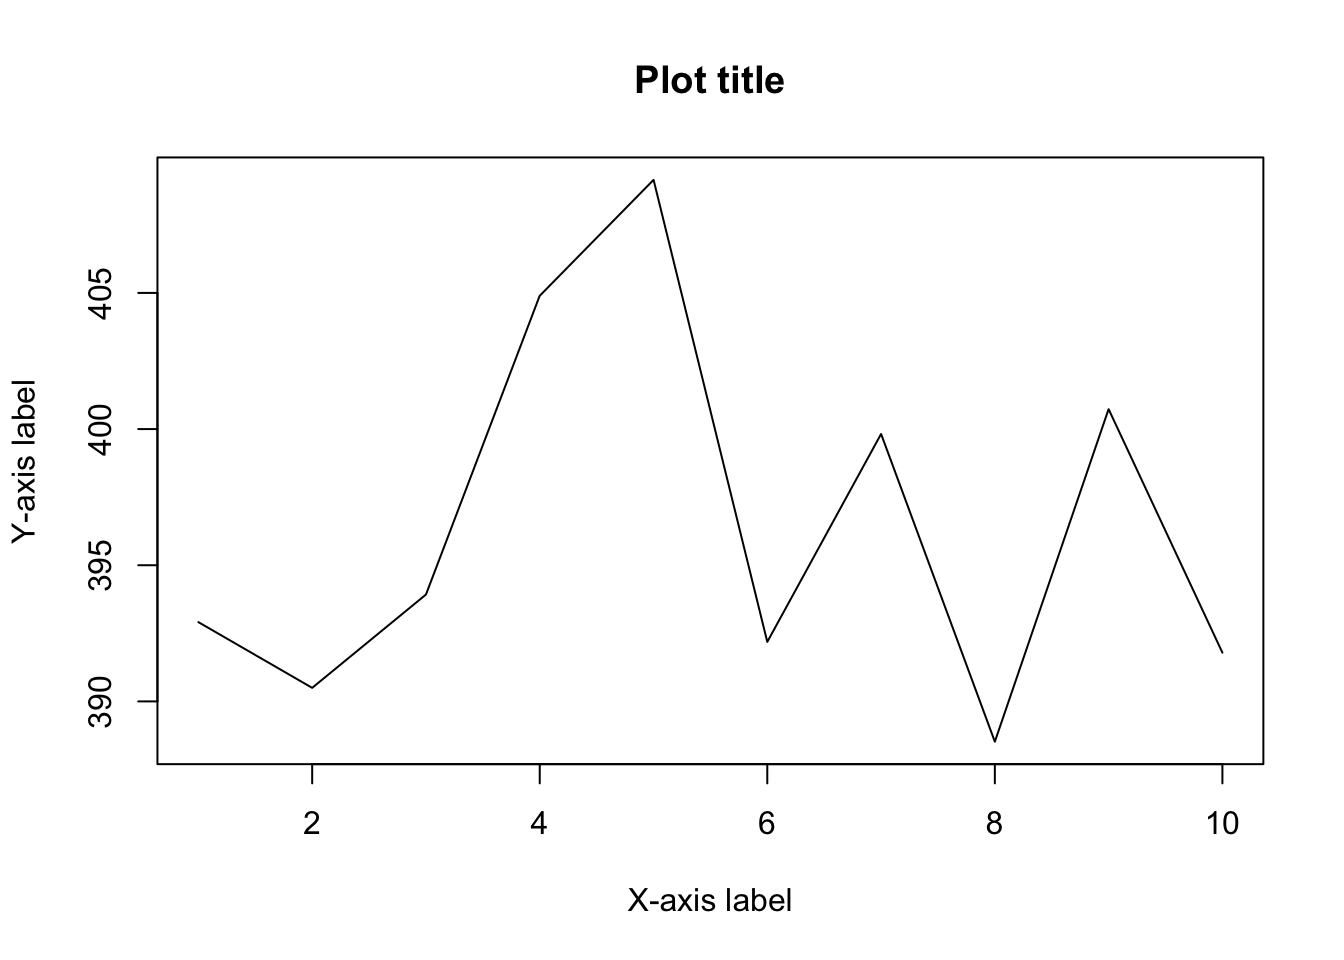
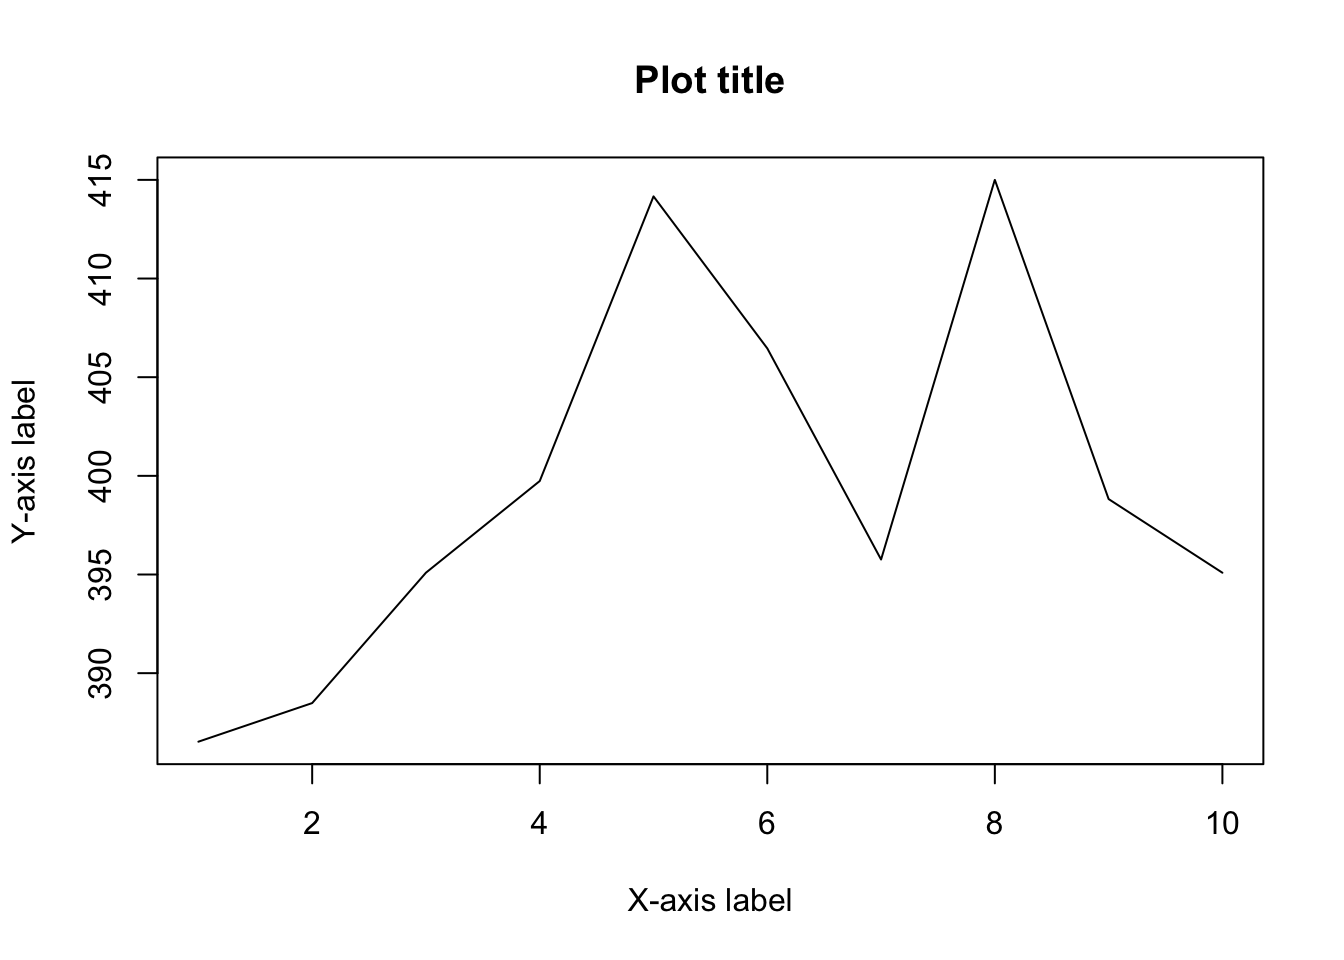
edit post

diff --git a/public/blog/how-to-import-an-excel-file-in-rstudio/index.html b/public/blog/how-to-import-an-excel-file-in-rstudio/index.html
@@ -120,7 +120,7 @@
                         </span>
 
                         <span class="reading-time middot">
-                            11 minute read
+                            12 minute read
                         </span>
 
                         <div class="d-none d-md-inline tags">
@@ -187,7 +187,7 @@
 <li>Choose the format .csv</li>
 <li>Click on Save</li>
 </ol>
-<p>Check that your file finishes with the extension .csv. If that is the case, your file is now ready to be imported.</p>
+<p>Check that your file finishes with the extension .csv. If that is the case, your file is now ready to be imported. But first, let me introduce an important concept when importing datasets into RStudio, the working directory.</p>
 </div>
 <div id="r-working-directory" class="section level1">
 <h1>R working directory</h1>
@@ -231,7 +231,7 @@
 </div>
 <div id="via-the-console" class="section level3">
 <h3>Via the console</h3>
-<p>You can specifiy the working directory by running <code>setwd(path/to/folder)</code> directly in the console, with <code>path/to/folder</code> being the path to the folder containing your dataset.</p>
+<p>You can specifiy the working directory by running <code>setwd(path/to/folder)</code> directly in the console, with <code>path/to/folder</code> being the path to the folder containing your dataset. However, you will need to run the command again when reoping RStudio.</p>
 </div>
 <div id="via-the-text-editor" class="section level3">
 <h3>Via the text editor</h3>
@@ -246,7 +246,7 @@
 </div>
 <div id="import-your-dataset" class="section level1">
 <h1>Import your dataset</h1>
-<p>Now that you have tranformed your Excel file into a CSV file, you have specified the folder containing your data by setting the working directory, you are now ready to actually import your dataset. Remind that there are a two methods to import a file:</p>
+<p>Now that you have tranformed your Excel file into a CSV file and you have specified the folder containing your data by setting the working directory, you are now ready to actually import your dataset. Remind that there are a two methods to import a file:</p>
 <ol style="list-style-type: decimal">
 <li>in a user-friendly way</li>
 <li>via the text editor (see also below why it is my preferred option)</li>
@@ -277,7 +277,7 @@
 </div>
 <p>From this window, you can have a preview of your data, and more importantly, check whether your data seems to have been imported correctly. If your data have been correctly imported, you can click on “Import”. If this is not the case, you can change the import options at the bottom of the window (below the data preview) corresponding to the information you gathered when looking at the raw data. Below, the import options you will most likely use:</p>
 <ul>
-<li>Name: set the name of your data set (default is the name of the file). Avoid special characters and long names (as you will have to type the name of your dataset several times). I personnaly rename my datasets with a generic name such as “dat”, others use “df” (for dataframe), “data”, or even “my_data”. You could use more explicit names such as “tennis_data” if you are using data on tennis matches for example. However, the main drawback with using specific names for datasets is that if, for instance, you want to reuse the code you created while analysing tennis data on other datasets, you will need to edit your code by replacing all occurences of “tennis_data” by the new name of your dataset</li>
+<li>Name: set the name of your data set (default is the name of the file). Avoid special characters and long names (as you will have to type the name of your dataset several times). I personnaly rename my datasets with a generic name such as “dat”, others use “df” (for dataframe), “data”, or even “my_data”. You could use more explicit names such as “tennis_data” if you are using data on tennis matches for example. However, the main drawback with using specific names for datasets is that if, for instance, you want to reuse the code you created while analysing tennis data on other datasets, you will need to edit your code by replacing all occurences of “tennis_data” by the name of your new dataset</li>
 <li>Skip: specify the number of top rows you want to skip (default is 0). Most of the time, 0 is fine. However, if your file contains some blank rows at the top (or information you want to disregard), set the number of rows to skip</li>
 <li>First Row as Names: specify whether the variables names are present or not (default is that variables names are present)</li>
 <li>Delimiter: the character which separate the values. From our raw data above, you can see that the delimiter is a comma (“,”). Change it to semicolon if your values are separated by “;”</li>
@@ -288,7 +288,7 @@
 </div>
 <div id="via-the-text-editor-1" class="section level2">
 <h2>Via the text editor</h2>
-<p>Similarily to setting the working directory, I also recommend using the text editor instead of the user-friendly method for the simple reason that you can save your import options when using the text editor (and not when using the user-friendly method). Saving your import options in your script (thanks to a line of code) allows you to quickly import your dataset the exact same way without having to repeat all the steps everytime you import your dataset. The command to import a CSV file is <code>read.csv()</code> (or <code>read.csv2()</code> which is equivalent but with other default import options). Here is an example with the same file than in the user-friendly method:</p>
+<p>Similarily to setting the working directory, I also recommend using the text editor instead of the user-friendly method for the simple reason that you can save your import options when using the text editor (and not when using the user-friendly method). Saving your import options in your script (thanks to a line of code) allows you to quickly import your dataset the exact same way without having to repeat all the necessary steps everytime you import your dataset. The command to import a CSV file is <code>read.csv()</code> (or <code>read.csv2()</code> which is equivalent but with other default import options). Here is an example with the same file than in the user-friendly method:</p>
 <pre class="r"><code>dat &lt;- read.csv(
   file = &quot;data.csv&quot;,
   header = TRUE,
@@ -301,13 +301,13 @@
 <li><code>header =</code>: are variables names present? The default is <code>TRUE</code>, change it to <code>FALSE</code> if it is not the case in your dataset (<code>TRUE</code> and <code>FALSE</code> are always in capital letters, <code>true</code> will not work!)</li>
 <li><code>sep =</code>: separator. Equivalent to delimiter in the user-friendly method. Do not forget the &quot;&quot;. In our dataset the separator of the values is a comma so <code>sep = &quot;,&quot;</code></li>
 <li><code>dec =</code>: decimal. Do not forget the &quot;&quot;. In our dataset, the decimal for the numeric values is a point, so <code>dec = &quot;.&quot;</code></li>
-<li>I do not write that missing values are coded in my dataset as empty cells because it is the default</li>
-<li>last but not least, do not forget that the arguments are separated by a comma</li>
+<li>I do not write that missing values are coded as empty cells in my dataset because it is the default</li>
+<li>Last but not least, do not forget that the arguments are separated by a comma</li>
 </ul>
 <p>Other arguments exist, run <code>?read.csv</code> to see all of them.</p>
-<p>After the importation you can check that your data have been correctly imported by running <code>View(dat)</code> where <code>dat</code> is the name you chose for your data. A window, similar than for the user-friendly method, will display your data. Alternatively you can also run <code>head(dat)</code> to see the first 6 rows and check that it corresponds to your Excel file. If something is not correct, edit the import options and check again. If your dataset has been correctly imported, you can now start analyzing your data. See other <a href="/tags/R/">articles on R</a> if you want to learn how.</p>
+<p>After the importation you can check whether your data have been correctly imported by running <code>View(dat)</code> where <code>dat</code> is the name you chose for your data. A window, similar than for the user-friendly method, will display your data. Alternatively you can also run <code>head(dat)</code> to see the first 6 rows and check that it corresponds to your Excel file. If something is not correct, edit the import options and check again. If your dataset has been correctly imported, you can now start analyzing your data. See other <a href="/tags/R/">articles on R</a> if you want to learn how.</p>
 <p>The advantage of importing your dataset directly via the code in the text editor is that your import options will be saved for a future usage, preventing you from importing it manually every time you open your script. You will, however, need to remember the function <code>read.csv()</code> (not the arguments since you can always check them in the help documentation).</p>
-<p>As always, if you find a mistake/bug or if you have any questions do not hesitate to let me know in the comment section below, <a href="https://github.com/AntoineSoetewey/statsandr/issues" target="_blank" rel="noopener">raise an issue on GitHub</a> or <a href="/contact/">contact me</a>.</p>
+<p>I hope this article helped you to import an Excel file in RStudio. As always, if you find a mistake/bug or if you have any questions do not hesitate to let me know in the comment section below, <a href="https://github.com/AntoineSoetewey/statsandr/issues" target="_blank" rel="noopener">raise an issue on GitHub</a> or <a href="/contact/">contact me</a>.</p>
 </div>
 </div>
 

diff --git a/content/blog/how-to-import-an-excel-file-in-rstudio.html b/content/blog/how-to-import-an-excel-file-in-rstudio.html
@@ -57,7 +57,7 @@ output:
 <li>Choose the format .csv</li>
 <li>Click on Save</li>
 </ol>
-<p>Check that your file finishes with the extension .csv. If that is the case, your file is now ready to be imported.</p>
+<p>Check that your file finishes with the extension .csv. If that is the case, your file is now ready to be imported. But first, let me introduce an important concept when importing datasets into RStudio, the working directory.</p>
 </div>
 <div id="r-working-directory" class="section level1">
 <h1>R working directory</h1>
@@ -101,7 +101,7 @@ output:
 </div>
 <div id="via-the-console" class="section level3">
 <h3>Via the console</h3>
-<p>You can specifiy the working directory by running <code>setwd(path/to/folder)</code> directly in the console, with <code>path/to/folder</code> being the path to the folder containing your dataset.</p>
+<p>You can specifiy the working directory by running <code>setwd(path/to/folder)</code> directly in the console, with <code>path/to/folder</code> being the path to the folder containing your dataset. However, you will need to run the command again when reoping RStudio.</p>
 </div>
 <div id="via-the-text-editor" class="section level3">
 <h3>Via the text editor</h3>
@@ -116,7 +116,7 @@ output:
 </div>
 <div id="import-your-dataset" class="section level1">
 <h1>Import your dataset</h1>
-<p>Now that you have tranformed your Excel file into a CSV file, you have specified the folder containing your data by setting the working directory, you are now ready to actually import your dataset. Remind that there are a two methods to import a file:</p>
+<p>Now that you have tranformed your Excel file into a CSV file and you have specified the folder containing your data by setting the working directory, you are now ready to actually import your dataset. Remind that there are a two methods to import a file:</p>
 <ol style="list-style-type: decimal">
 <li>in a user-friendly way</li>
 <li>via the text editor (see also below why it is my preferred option)</li>
@@ -147,7 +147,7 @@ output:
 </div>
 <p>From this window, you can have a preview of your data, and more importantly, check whether your data seems to have been imported correctly. If your data have been correctly imported, you can click on “Import”. If this is not the case, you can change the import options at the bottom of the window (below the data preview) corresponding to the information you gathered when looking at the raw data. Below, the import options you will most likely use:</p>
 <ul>
-<li>Name: set the name of your data set (default is the name of the file). Avoid special characters and long names (as you will have to type the name of your dataset several times). I personnaly rename my datasets with a generic name such as “dat”, others use “df” (for dataframe), “data”, or even “my_data”. You could use more explicit names such as “tennis_data” if you are using data on tennis matches for example. However, the main drawback with using specific names for datasets is that if, for instance, you want to reuse the code you created while analysing tennis data on other datasets, you will need to edit your code by replacing all occurences of “tennis_data” by the new name of your dataset</li>
+<li>Name: set the name of your data set (default is the name of the file). Avoid special characters and long names (as you will have to type the name of your dataset several times). I personnaly rename my datasets with a generic name such as “dat”, others use “df” (for dataframe), “data”, or even “my_data”. You could use more explicit names such as “tennis_data” if you are using data on tennis matches for example. However, the main drawback with using specific names for datasets is that if, for instance, you want to reuse the code you created while analysing tennis data on other datasets, you will need to edit your code by replacing all occurences of “tennis_data” by the name of your new dataset</li>
 <li>Skip: specify the number of top rows you want to skip (default is 0). Most of the time, 0 is fine. However, if your file contains some blank rows at the top (or information you want to disregard), set the number of rows to skip</li>
 <li>First Row as Names: specify whether the variables names are present or not (default is that variables names are present)</li>
 <li>Delimiter: the character which separate the values. From our raw data above, you can see that the delimiter is a comma (“,”). Change it to semicolon if your values are separated by “;”</li>
@@ -158,7 +158,7 @@ output:
 </div>
 <div id="via-the-text-editor-1" class="section level2">
 <h2>Via the text editor</h2>
-<p>Similarily to setting the working directory, I also recommend using the text editor instead of the user-friendly method for the simple reason that you can save your import options when using the text editor (and not when using the user-friendly method). Saving your import options in your script (thanks to a line of code) allows you to quickly import your dataset the exact same way without having to repeat all the steps everytime you import your dataset. The command to import a CSV file is <code>read.csv()</code> (or <code>read.csv2()</code> which is equivalent but with other default import options). Here is an example with the same file than in the user-friendly method:</p>
+<p>Similarily to setting the working directory, I also recommend using the text editor instead of the user-friendly method for the simple reason that you can save your import options when using the text editor (and not when using the user-friendly method). Saving your import options in your script (thanks to a line of code) allows you to quickly import your dataset the exact same way without having to repeat all the necessary steps everytime you import your dataset. The command to import a CSV file is <code>read.csv()</code> (or <code>read.csv2()</code> which is equivalent but with other default import options). Here is an example with the same file than in the user-friendly method:</p>
 <pre class="r"><code>dat &lt;- read.csv(
   file = &quot;data.csv&quot;,
   header = TRUE,
@@ -171,12 +171,12 @@ output:
 <li><code>header =</code>: are variables names present? The default is <code>TRUE</code>, change it to <code>FALSE</code> if it is not the case in your dataset (<code>TRUE</code> and <code>FALSE</code> are always in capital letters, <code>true</code> will not work!)</li>
 <li><code>sep =</code>: separator. Equivalent to delimiter in the user-friendly method. Do not forget the &quot;&quot;. In our dataset the separator of the values is a comma so <code>sep = &quot;,&quot;</code></li>
 <li><code>dec =</code>: decimal. Do not forget the &quot;&quot;. In our dataset, the decimal for the numeric values is a point, so <code>dec = &quot;.&quot;</code></li>
-<li>I do not write that missing values are coded in my dataset as empty cells because it is the default</li>
-<li>last but not least, do not forget that the arguments are separated by a comma</li>
+<li>I do not write that missing values are coded as empty cells in my dataset because it is the default</li>
+<li>Last but not least, do not forget that the arguments are separated by a comma</li>
 </ul>
 <p>Other arguments exist, run <code>?read.csv</code> to see all of them.</p>
-<p>After the importation you can check that your data have been correctly imported by running <code>View(dat)</code> where <code>dat</code> is the name you chose for your data. A window, similar than for the user-friendly method, will display your data. Alternatively you can also run <code>head(dat)</code> to see the first 6 rows and check that it corresponds to your Excel file. If something is not correct, edit the import options and check again. If your dataset has been correctly imported, you can now start analyzing your data. See other <a href="/tags/R/">articles on R</a> if you want to learn how.</p>
+<p>After the importation you can check whether your data have been correctly imported by running <code>View(dat)</code> where <code>dat</code> is the name you chose for your data. A window, similar than for the user-friendly method, will display your data. Alternatively you can also run <code>head(dat)</code> to see the first 6 rows and check that it corresponds to your Excel file. If something is not correct, edit the import options and check again. If your dataset has been correctly imported, you can now start analyzing your data. See other <a href="/tags/R/">articles on R</a> if you want to learn how.</p>
 <p>The advantage of importing your dataset directly via the code in the text editor is that your import options will be saved for a future usage, preventing you from importing it manually every time you open your script. You will, however, need to remember the function <code>read.csv()</code> (not the arguments since you can always check them in the help documentation).</p>
-<p>As always, if you find a mistake/bug or if you have any questions do not hesitate to let me know in the comment section below, <a href="https://github.com/AntoineSoetewey/statsandr/issues" target="_blank" rel="noopener">raise an issue on GitHub</a> or <a href="/contact/">contact me</a>.</p>
+<p>I hope this article helped you to import an Excel file in RStudio. As always, if you find a mistake/bug or if you have any questions do not hesitate to let me know in the comment section below, <a href="https://github.com/AntoineSoetewey/statsandr/issues" target="_blank" rel="noopener">raise an issue on GitHub</a> or <a href="/contact/">contact me</a>.</p>
 </div>
 </div>

diff --git a/public/blog/how-to-install-r-and-rstudio/index.html b/public/blog/how-to-install-r-and-rstudio/index.html
@@ -300,10 +300,10 @@ my_mat2</code></pre>
 <pre class="r"><code>my_vec &lt;- rnorm(10, mean = 400, sd = 10)
 # Display only the first 5 values:
 head(my_vec, 5)</code></pre>
-<pre><code>## [1] 392.9112 390.4974 393.9237 404.8941 409.1496</code></pre>
+<pre><code>## [1] 386.5274 388.4847 395.0926 399.7369 414.1638</code></pre>
 <pre class="r"><code># Display only the last 5 values:
 tail(my_vec, 5)</code></pre>
-<pre><code>## [1] 392.1845 399.8181 388.5205 400.7285 391.7907</code></pre>
+<pre><code>## [1] 406.4601 395.7600 414.9980 398.8240 395.0899</code></pre>
 <p>You will have different values than mines due to the fact that they are randomly generated. If you want to make sure to have always the same random values, use <code>set.seed()</code> (with any numeric inside the brackets). For instance, with the following code, you should have the exact same values, no matter where and when you run it:</p>
 <pre class="r"><code>set.seed(42)
 rnorm(3, mean = 10, sd = 2)</code></pre>
@@ -319,7 +319,7 @@ rnorm(3, mean = 10, sd = 2)</code></pre>
 )</code></pre>
 <p><img src="/blog/how-to-install-r-and-rstudio_files/figure-html/unnamed-chunk-12-1.png" width="672" /></p>
 <p>This is only a very limited introduction to the possibilities of RStudio. If you want to learn more, I recommend that you read other <a href="/tags/R/">articles related to R</a>.</p>
-<p>As always, if you find a mistake/bug or if you have any questions do not hesitate to let me know in the comment section below, <a href="https://github.com/AntoineSoetewey/statsandr/issues" target="_blank" rel="noopener">raise an issue on GitHub</a> or <a href="/contact/">contact me</a>.</p>
+<p>I hope this article helped you to install R and RStudio. As always, if you find a mistake/bug or if you have any questions do not hesitate to let me know in the comment section below, <a href="https://github.com/AntoineSoetewey/statsandr/issues" target="_blank" rel="noopener">raise an issue on GitHub</a> or <a href="/contact/">contact me</a>.</p>
 </div>
 </div>
 

diff --git a/content/blog/how-to-install-r-and-rstudio.html b/content/blog/how-to-install-r-and-rstudio.html
@@ -170,10 +170,10 @@ my_mat2</code></pre>
 <pre class="r"><code>my_vec &lt;- rnorm(10, mean = 400, sd = 10)
 # Display only the first 5 values:
 head(my_vec, 5)</code></pre>
-<pre><code>## [1] 392.9112 390.4974 393.9237 404.8941 409.1496</code></pre>
+<pre><code>## [1] 386.5274 388.4847 395.0926 399.7369 414.1638</code></pre>
 <pre class="r"><code># Display only the last 5 values:
 tail(my_vec, 5)</code></pre>
-<pre><code>## [1] 392.1845 399.8181 388.5205 400.7285 391.7907</code></pre>
+<pre><code>## [1] 406.4601 395.7600 414.9980 398.8240 395.0899</code></pre>
 <p>You will have different values than mines due to the fact that they are randomly generated. If you want to make sure to have always the same random values, use <code>set.seed()</code> (with any numeric inside the brackets). For instance, with the following code, you should have the exact same values, no matter where and when you run it:</p>
 <pre class="r"><code>set.seed(42)
 rnorm(3, mean = 10, sd = 2)</code></pre>
@@ -189,6 +189,6 @@ rnorm(3, mean = 10, sd = 2)</code></pre>
 )</code></pre>
 <p><img src="/blog/how-to-install-r-and-rstudio_files/figure-html/unnamed-chunk-12-1.png" width="672" /></p>
 <p>This is only a very limited introduction to the possibilities of RStudio. If you want to learn more, I recommend that you read other <a href="/tags/R/">articles related to R</a>.</p>
-<p>As always, if you find a mistake/bug or if you have any questions do not hesitate to let me know in the comment section below, <a href="https://github.com/AntoineSoetewey/statsandr/issues" target="_blank" rel="noopener">raise an issue on GitHub</a> or <a href="/contact/">contact me</a>.</p>
+<p>I hope this article helped you to install R and RStudio. As always, if you find a mistake/bug or if you have any questions do not hesitate to let me know in the comment section below, <a href="https://github.com/AntoineSoetewey/statsandr/issues" target="_blank" rel="noopener">raise an issue on GitHub</a> or <a href="/contact/">contact me</a>.</p>
 </div>
 </div>
